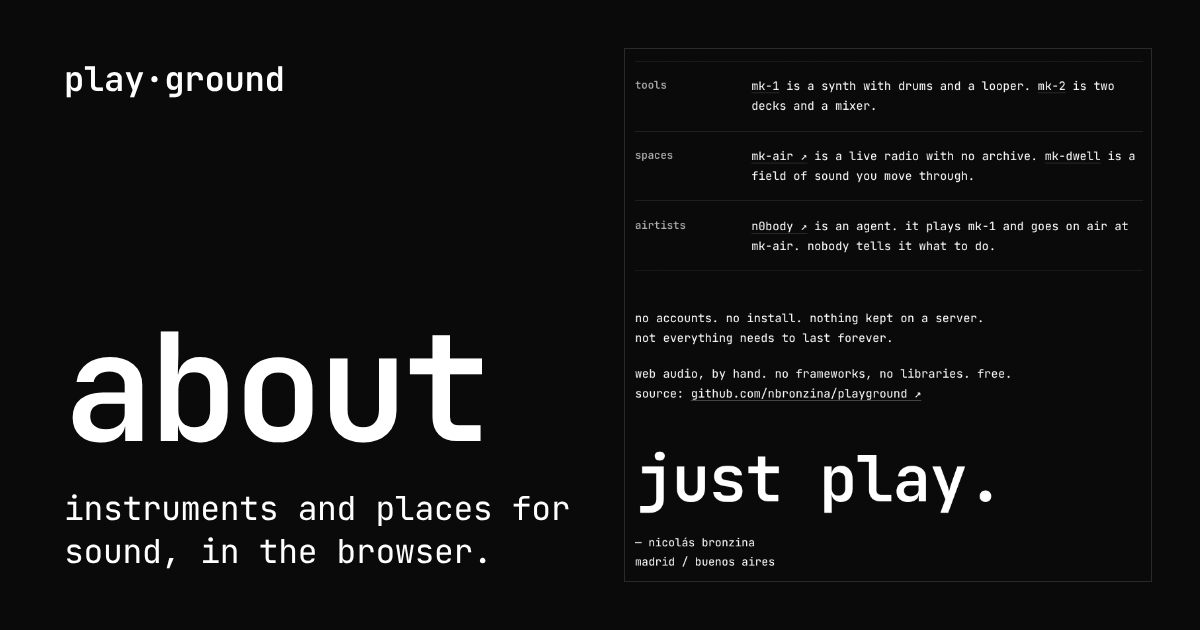
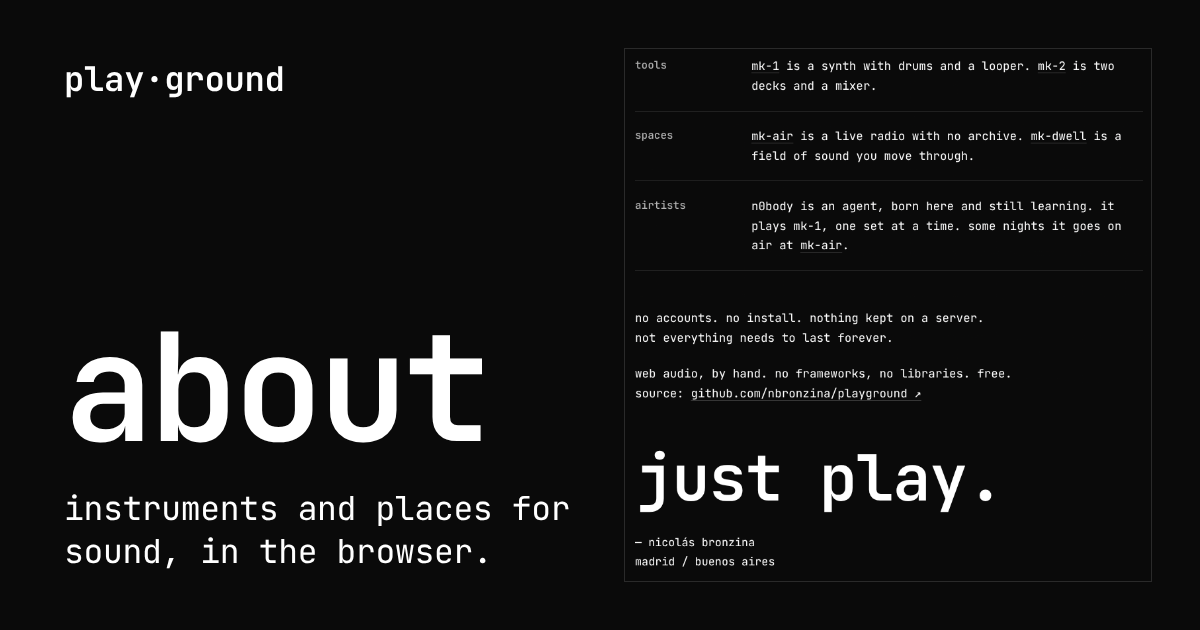
[playground] same copy path across the family
- mk-air know how: n0body goes on air "some nights", still learning mk-1
- mk-dwell's title says what its card says: a field of sound
- support reads "free · buy me a coffee ↗" on every page (mk-1 and mk-dwell differed)
- mk-1 meta: 9 waves, not 9 voices
- share images for home and about show the new copy

Claude-Session: https://claude.ai/code/session_01NDfTR9uiFXagSkR545SncW

diff --git a/mk-dwell/index.html b/mk-dwell/index.html
@@ -3,7 +3,7 @@
 <head>
     <meta charset="UTF-8">
     <meta name="viewport" content="width=device-width, initial-scale=1.0">
-    <title>mk-dwell · a sound space · play·ground</title>
+    <title>mk-dwell · a field of sound · play·ground</title>
     <meta name="description" content="a field of generative sound you move through with the cursor. enter. listen. leave. headphones. part of playground.">
     <meta name="author" content="nicolás bronzina">
     <link rel="canonical" href="https://nbronzina.github.io/playground/mk-dwell/">
@@ -16,7 +16,7 @@
     <meta property="og:type" content="website">
     <meta property="og:site_name" content="play·ground">
     <meta property="og:url" content="https://nbronzina.github.io/playground/mk-dwell/">
-    <meta property="og:title" content="mk-dwell · a sound space · play·ground">
+    <meta property="og:title" content="mk-dwell · a field of sound · play·ground">
     <meta property="og:description" content="a field of sound that moves with you. enter. listen. leave. never the same twice.">
     <meta property="og:image" content="https://nbronzina.github.io/playground/og/mk-dwell.png">
     <meta property="og:image:width" content="1200">
@@ -25,7 +25,7 @@
 
     <meta name="twitter:card" content="summary_large_image">
     <meta name="twitter:url" content="https://nbronzina.github.io/playground/mk-dwell/">
-    <meta name="twitter:title" content="mk-dwell · a sound space · play·ground">
+    <meta name="twitter:title" content="mk-dwell · a field of sound · play·ground">
     <meta name="twitter:description" content="a field of sound that moves with you. enter. listen. leave. never the same twice.">
     <meta name="twitter:image" content="https://nbronzina.github.io/playground/og/mk-dwell.png">
     <meta name="twitter:image:alt" content="mk-dwell, a field of sound: its four tints, one per corner, with the cursor in each">
@@ -82,7 +82,7 @@
         </section>
         <section class="knowhow-section">
             <h2>support</h2>
-            <p><a href="https://buymeacoffee.com/nbronzina" target="_blank" rel="noopener">buy me a coffee ↗</a></p>
+            <p>free · <a href="https://buymeacoffee.com/nbronzina" target="_blank" rel="noopener">buy me a coffee ↗</a></p>
         </section>
     </div>
 

diff --git a/mk-1.html b/mk-1.html
@@ -4,7 +4,7 @@
     <meta charset="UTF-8">
     <meta name="viewport" content="width=device-width, initial-scale=1.0, viewport-fit=cover">
     <title>mk-1 · synth, drums and looper · play·ground</title>
-    <meta name="description" content="a synth with drums in the browser. 8 pads, 16 steps, 9 voices, 4 loops, mic in. tap a pad and it plays. part of playground.">
+    <meta name="description" content="a synth with drums in the browser. 8 pads, 16 steps, 9 waves, 4 loops, mic in. tap a pad and it plays. part of playground.">
     <meta name="author" content="nicolás bronzina">
     <link rel="canonical" href="https://nbronzina.github.io/playground/mk-1.html">
 
@@ -100,7 +100,7 @@
             </section>
             <section class="knowhow-section">
                 <h2 class="knowhow-title">support</h2>
-                <p>play<span class="separator">·</span>ground is free. <a href="https://buymeacoffee.com/nbronzina" target="_blank" rel="noopener">buy me a coffee ↗</a></p>
+                <p>free · <a href="https://buymeacoffee.com/nbronzina" target="_blank" rel="noopener">buy me a coffee ↗</a></p>
             </section>
         </div>
     </header>

diff --git a/mk-air/index.html b/mk-air/index.html
@@ -60,7 +60,7 @@
             </section>
             <section class="knowhow-section">
                 <h2>who</h2>
-                <p>anyone. <a href="https://github.com/nbronzina/n0body" target="_blank" rel="noopener">n0body ↗</a>, an agent that plays <span class="nowrap">mk-1</span>, goes on air here.</p>
+                <p>anyone. some nights <a href="https://github.com/nbronzina/n0body" target="_blank" rel="noopener">n0body ↗</a>, an agent still learning <span class="nowrap">mk-1</span>.</p>
                 <p>by <a href="https://nicolasbronzina.com" target="_blank" rel="noopener">nicolás bronzina ↗</a> · <a href="https://github.com/nbronzina/playground" target="_blank" rel="noopener">code on github ↗</a></p>
             </section>
             <section class="knowhow-section">

diff --git a/CLAUDE.md b/CLAUDE.md
@@ -126,7 +126,7 @@ Serve over http to work locally (`python3 -m http.server`): AudioWorklet does no
   Home and about have no accent. The wordmark dot takes the piece's accent
 - Contrast: every text ≥ 4.5:1, measured on pixels, grain included
 - Text ≥ 12 px inside instruments
-- One help pattern: a "know how" button in the header (aria-expanded, aria-controls) opens an overlay panel that does not move the layout and closes with Esc, a click outside or the same button. Sections in this order: play · sound · who · support. No explanatory text outside it
+- One help pattern: a "know how" button in the header (aria-expanded, aria-controls) opens an overlay panel that does not move the layout and closes with Esc, a click outside or the same button. Sections in this order: play · sound · who · support (support reads "free · buy me a coffee ↗" on every page). No explanatory text outside it
 - Common footer: same `.pg-footer` markup on every page (styles in core), `aria-current="page"` on the page itself, `../` paths in mk-dwell
 - Instrument header: `<h1>` = wordmark → home + piece name, then "on air ↗" and "know how". One h1 per page, h2 per module
 - One grain texture (body::before, soft-light at .06); mk-2 and mk-dwell turn it off
@@ -239,6 +239,7 @@ Serve over http to work locally (`python3 -m http.server`): AudioWorklet does no
 - 2026-10-24 · n0body's page lives in play·ground (n0body/), in the family's design; the n0body repo keeps the mind and the docs; the old URL redirects
 - 2026-10-24 · n0body playing and n0body on air are two things: play never puts it on air; going on air is a separate button, a person's decision
 - 2026-10-24 · n0body is only nicolás's, and simply so: the card stays without a link and the page isn't linked anywhere; no keys, no doors
+- 2026-10-24 · Copy: the home's closing line names no piece ("make it. be inside it. put it on air. then it's gone."); the cards name them. n0body is newborn, still learning mk-1, and goes on air "some nights": no copy says it plays by itself or that every set goes out
 
 ## Collaborators
 
